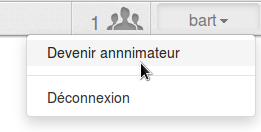
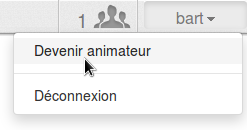
Version 0.6.0

diff --git a/public/views/index.html b/public/views/index.html
@@ -48,7 +48,7 @@
           <button style="color:#787777; font-size: 16px;" type="button" class="btn btn-default dropdown-toggle" data-toggle="dropdown" id="menu-pseudo"></button>
           <ul class="dropdown-menu" role="menu" id="dropdown-menu-list">
             <li id="bouton-selectPPT"><a href="#">Sélectionner une présentation</a></li>
-            <li id="become-animator"><a href="#">Devenir annnimateur</a></li>
+            <li id="become-animator"><a href="#">Devenir animateur</a></li>
             <li class="divider"></li>
             <li><a href="/login.html">Déconnexion</a></li>
           </ul>

diff --git a/README.md b/README.md
@@ -7,6 +7,8 @@ Ce projet est la suite de ce qui a été fait par Aurelien GEANT et Julian DEMAR
 
 Aujourd'hui, les animations sont fonctionnelles et le visionnage des slides se fait sans connexion à internet. Une authentification est désormais nécessaire pour accéder au websocket. Il est ausi possible d'enregistrer une session et d'accorder à certain client les droits d'animation.
     
+La vesion actuel est la 0.6.0, n'hésitez pas à consulter son [changelog](https://github.com/OresteVisari/Slides-Dynamiques/wiki/Changelogs).
+
     
 HOW TO
 -----------------------------
@@ -21,10 +23,23 @@ Le compte root à pour mot de passe : *lkp*
 Tous les autres utilisateurs ont pour mot de passe : *comete*
 
 
+FONCTIONNALITÉS
+----------------
+
+Voici les fonctionnalités offertes par notre projet :
+
+- **Diffusion des changements de slides et des animations** sur tout les postes esclaves connectés.
+- **Channel de discussion** permettant aux utilisateurs connectés de se parler.
+- **Channel privé** permettant aux utilisateurs de se parler de manière privé.
+- Diffusion de la présentation en **mode hors connexion**.
+- **Diffusion de vidéo** synchronisée sur tout les postes esclaves connectés.
+- **Enregistrement des sessions** effectués afin de pouvoir les rejouer.
+- Possibilité au root d’**allouer des droits à un client**.
+- Sécurisation du websocket par un **système d'authentification** et mise en place du **mode HTTPS**.
+- Possibilité d'**uploader des diapositives**.
     
+
 INFORMATIONS SUPPLÉMENTAIRES
 -----------------------------
 
-Pour toutes informations supplémentaires, veuillez consulter notre wiki :
-
-    https://github.com/OresteVisari/Slides-Dynamiques/wiki
+Pour toutes informations supplémentaires, veuillez consulter notre [wiki](https://github.com/OresteVisari/Slides-Dynamiques/wiki).
